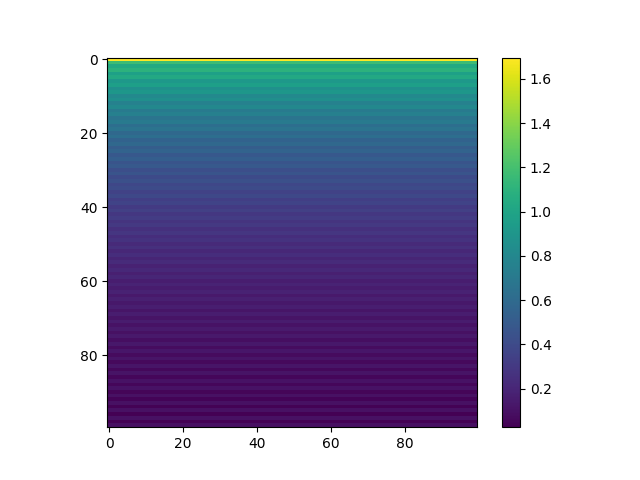
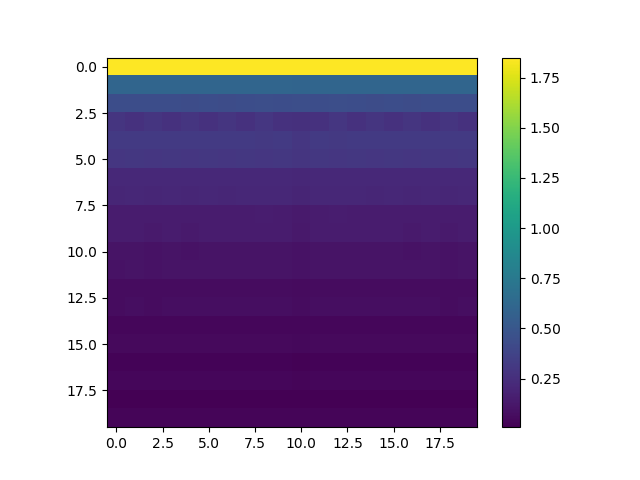
Add kelp to RTE matrix. Not sure if it worked yet.

diff --git a/gen_matrix_2d.py b/gen_matrix_2d.py
@@ -1,7 +1,7 @@
 # File Name: gen_matrix.py
 # Description: Generate matrix from RTE & create image to show structure
 # Created: Sun Apr 09, 2017 | 01:57pm EDT
-# Last Modified: Tue Apr 11, 2017 | 06:12pm EDT
+# Last Modified: Tue Apr 11, 2017 | 08:00pm EDT
 
 #-#-#-#-#-#-#-#-#-#-#-#-#-#-#-#-#-#-#-#-#-#-#-#-#-#-#-#-#-#-#-#-#-#-#-#-
 #                           GNU GPL LICENSE                            #
@@ -83,14 +83,17 @@ class KelpScenario(object):
 
     # Set Inherent optical properties (IOPs)
     # volume scattering function (vsf)
-    # absorption coefficient (abs_coef)
-    # scattering coefficient (sct_coef)
-    # total attenuation coefficient (atn_coef)
-    def set_iops(self,vsf,abs_coef,sct_coef):
+    # absorption coefficient (abs_water/abs_kelp)
+    # scattering coefficient (sct_water/abs_kelp)
+    # total attenuation coefficient (atn_water/kelp)
+    def set_iops(self,vsf,abs_water,sct_water,abs_kelp,sct_kelp):
         self._vsf = vsf
-        self._abs_coef = abs_coef
-        self._sct_coef = sct_coef
-        self._atn_coef = abs_coef + sct_coef
+        self._abs_water = abs_water
+        self._sct_water = sct_water
+        self._abs_kelp = abs_kelp
+        self._sct_kelp = sct_kelp
+        self._atn_water = abs_water + sct_water
+        self._atn_kelp = abs_kelp + sct_kelp
 
     # Generate 2D array of kelp density over space
     # Assume all individuals are identical. Kelp density is either ind(j)/2 or 0
@@ -186,8 +189,12 @@ class KelpScenario(object):
                     # Apply PDE when appropriate
                     # atten. & x derivative & scattering
                     if pde_flag:
+                        atn_coef = (self._atn_kelp * self._p_k[ii,jj]
+                                + self._atn_water * (1 - self._p_k[ii,jj]))
+                        sct_coef = (self._sct_kelp * self._p_k[ii,jj]
+                                + self._sct_water * (1 - self._p_k[ii,jj]))
                         # attenuation
-                        mat[row,row] = self._atn_coef
+                        mat[row,row] = atn_coef
                         # scattering
                         for ll in range(self._nth):
                             # Only consider ll != kk
@@ -206,7 +213,7 @@ class KelpScenario(object):
                             # thp and the image of thp in
                             # [2pi,4pi) and [-2pi,0)
                             mat[row,indx(ii,jj,ll)] = (
-                                  self._sct_coef 
+                                  sct_coef 
                                 * self._dth
                                 * self._vsf(angle_diff))
 

diff --git a/kelptest.py b/kelptest.py
@@ -1,7 +1,7 @@
 # File Name: kelptest.py
 # Description: Generate a few matrices with gen_matrix_2d.py
 # Created: Mon Apr 10, 2017 | 10:00am EDT
-# Last Modified: Tue Apr 11, 2017 | 06:14pm EDT
+# Last Modified: Tue Apr 11, 2017 | 08:00pm EDT
 
 #-#-#-#-#-#-#-#-#-#-#-#-#-#-#-#-#-#-#-#-#-#-#-#-#-#-#-#-#-#-#-#-#-#-#-#-
 #                           GNU GPL LICENSE                            #
@@ -31,11 +31,12 @@ import itertools as it
 def surf_bc_fun(th):
     return np.sin(th)
 
+# Normalized mock VSF
 def vsf(th):
-    return np.exp(-th/2)
+    return 2 * np.exp(-th/2) / (1 - np.exp(-np.pi/2))
 
-dx = 1e-2
-dy = 1e-2
+dx = 5e-2
+dy = 5e-2
 dth = np.pi/4
 mesh = [dx,dy,dth]
 
@@ -43,12 +44,16 @@ nx = int(np.floor(1/dx))
 ny = int(np.floor(1/dy))
 nth = int(np.floor(2*np.pi/dth))
 
-kelp_lengths = np.exp(-1-np.arange(ny)/10)
+#kelp_lengths = np.exp(-1-np.arange(ny)/10)
+kelp_lengths = np.ones(ny)
+kelp_lengths[3] = 0
 ind = np.ones(ny)
 
-abs_coef = 1
-sct_coef = 1
-iops = [vsf,abs_coef,sct_coef]
+abs_water = 1
+sct_water = 1
+abs_kelp = 2
+sct_kelp = 1
+iops = [vsf,abs_water,sct_water,abs_kelp,sct_kelp]
 
 scenario = gm2.KelpScenario(mesh,kelp_lengths,ind,surf_bc_fun,iops)
 
